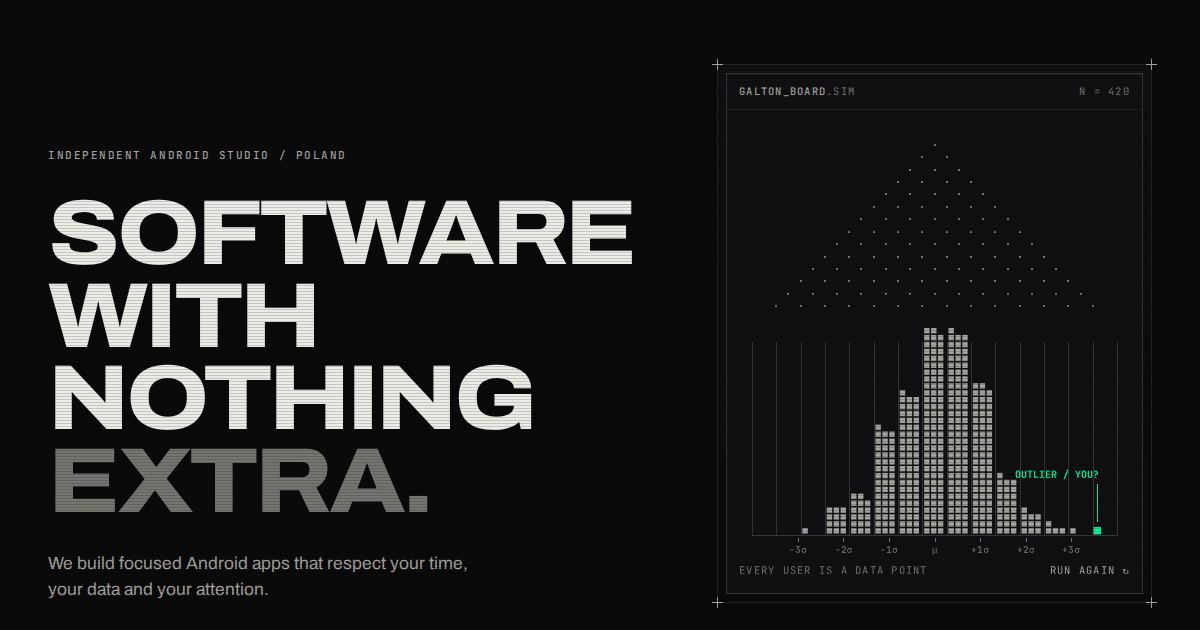
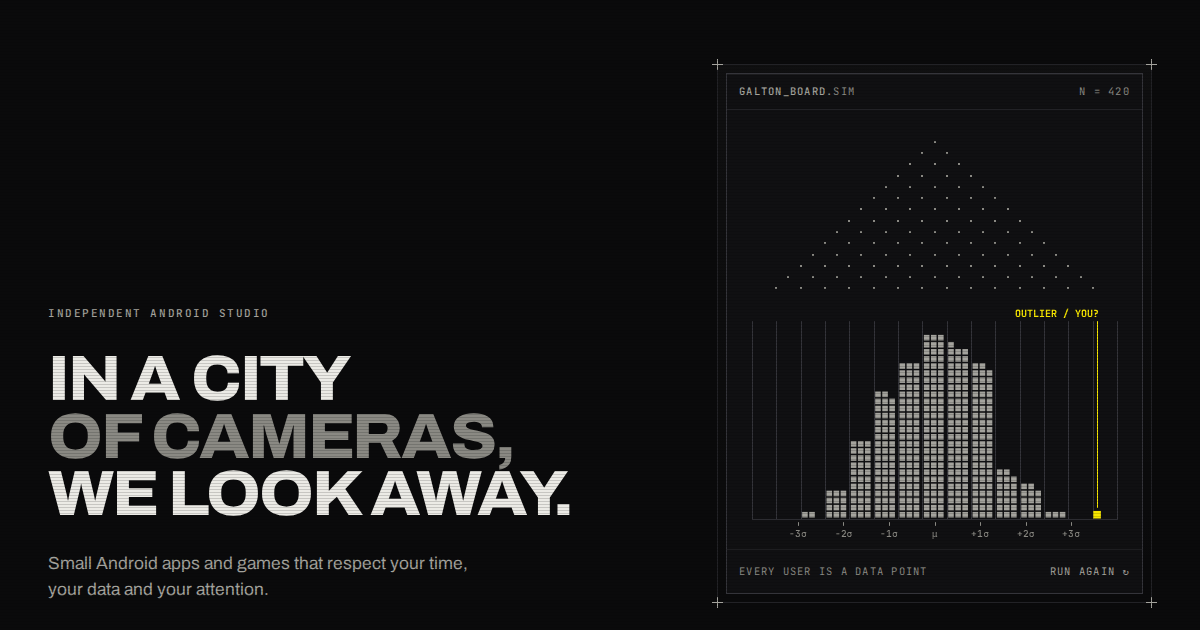
slogan v2

diff --git a/_build/pages/10-home.html b/_build/pages/10-home.html
@@ -15,13 +15,13 @@
     <div class="hero-copy">
       <p class="mono-label" data-scramble><span lang="en">Independent Android studio</span><span lang="pl">Niezależne studio Android</span></p>
       <h1 class="h-display">
-        <span lang="en"><span class="ln"><span>Software</span></span><span class="ln"><span>with nothing</span></span><span class="ln"><span class="dim">extra.</span></span></span>
-        <span lang="pl"><span class="ln"><span>Aplikacje</span></span><span class="ln"><span>bez niczego</span></span><span class="ln"><span class="dim">zbędnego.</span></span></span>
+        <span lang="en"><span class="ln"><span>In a city</span></span><span class="ln"><span class="dim">of cameras,</span></span><span class="ln"><span>we look away.</span></span></span>
+        <span lang="pl"><span class="ln"><span>W mieście kamer</span></span><span class="ln"><span class="dim">odwracamy</span></span><span class="ln"><span>wzrok.</span></span></span>
       </h1>
       <div class="hero-fade">
         <p class="lede">
-          <span lang="en">We build focused Android apps that respect your time, your data and your attention.</span>
-          <span lang="pl">Tworzymy skupione aplikacje na Androida, które szanują Twój czas, Twoje dane i Twoją uwagę.</span>
+          <span lang="en">Small Android apps and games that respect your time, your data and your attention.</span>
+          <span lang="pl">Małe aplikacje i gry na Androida, które szanują Twój czas, Twoje dane i Twoją uwagę.</span>
         </p>
         <div class="btn-row" style="margin-top:36px">
           <a class="btn btn--solid" href="#apps" data-dir="down"><span class="t"><span lang="en">See the apps</span><span lang="pl">Zobacz aplikacje</span></span><span class="g" aria-hidden="true"><i>&#8595;</i></span></a>

diff --git a/pl/index.html b/pl/index.html
@@ -75,12 +75,12 @@
 <p class="mono-label" data-scramble="">Niezależne studio Android</p>
 <h1 class="h-display">
 
-<span class="ln"><span>Aplikacje</span></span><span class="ln"><span>bez niczego</span></span><span class="ln"><span class="dim">zbędnego.</span></span>
+<span class="ln"><span>W mieście kamer</span></span><span class="ln"><span class="dim">odwracamy</span></span><span class="ln"><span>wzrok.</span></span>
 </h1>
 <div class="hero-fade">
 <p class="lede">
 
-Tworzymy skupione aplikacje na Androida, które szanują Twój czas, Twoje dane i Twoją uwagę.
+Małe aplikacje i gry na Androida, które szanują Twój czas, Twoje dane i Twoją uwagę.
 </p>
 <div class="btn-row" style="margin-top:36px">
 <a class="btn btn--solid" data-dir="down" href="#apps"><span class="t">Zobacz aplikacje</span><span aria-hidden="true" class="g"><i>↓</i></span></a>

diff --git a/index.html b/index.html
@@ -74,12 +74,12 @@
 <div class="hero-copy">
 <p class="mono-label" data-scramble="">Independent Android studio</p>
 <h1 class="h-display">
-<span class="ln"><span>Software</span></span><span class="ln"><span>with nothing</span></span><span class="ln"><span class="dim">extra.</span></span>
+<span class="ln"><span>In a city</span></span><span class="ln"><span class="dim">of cameras,</span></span><span class="ln"><span>we look away.</span></span>
 
 </h1>
 <div class="hero-fade">
 <p class="lede">
-We build focused Android apps that respect your time, your data and your attention.
+Small Android apps and games that respect your time, your data and your attention.
 
 </p>
 <div class="btn-row" style="margin-top:36px">

diff --git a/assets/css/site.css b/assets/css/site.css
@@ -515,8 +515,8 @@ html[data-lang="pl"] body [lang="en"] { display: none !important; }
   align-items: end;
 }
 .hero h1 {
-  font-size: clamp(40px, 6.1vw, 104px);
-  font-stretch: 112%;
+  font-size: clamp(38px, 5.7vw, 92px);
+  font-stretch: 106%;
 }
 .h-display .ln { display: block; }
 .hero h1 .dim { color: var(--fg-3); }
